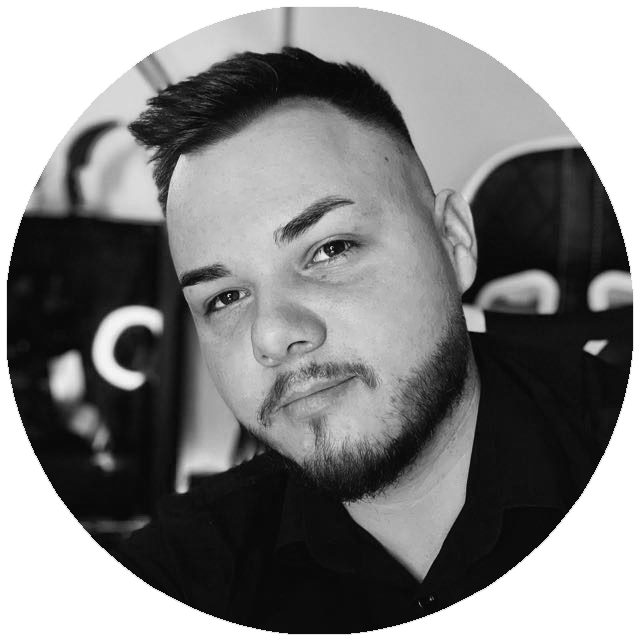
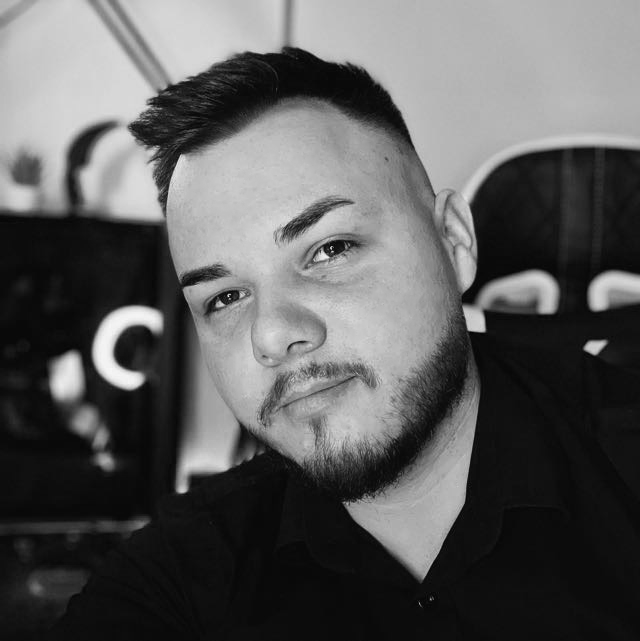
ripples fix

Changed region(s): [[0.0, 0.0, 1.0, 1.0]]

diff --git a/index.html b/index.html
@@ -44,7 +44,7 @@
                 <a href="#service" class="nav-item nav-link">Services</a>
                 <a href="#contact" class="nav-item nav-link">Contact</a>
             </div>
-            <a href="" class="btn btn-outline-primary d-none d-lg-block">Get CV</a>
+            <a href="assets/docs/cv.pdf" class="btn btn-outline-primary d-none d-lg-block" style="display: block; max-width: 200px;" download="Valentin - CV.pdf">Get CV</a>
         </div>
     </nav>
     <!-- Navbar End -->
@@ -55,7 +55,7 @@
         <div class="container">
             <div class="row align-items-center">
                 <div class="col-lg-5 px-5 pl-lg-0 pb-5 pb-lg-0">
-                    <img class="img-fluid w-100 rounded-circle shadow-sm" src="assets/img/profile.png" alt="">
+                    <img class="img-fluid w-100 rounded-circle shadow-sm" id="profile-photo" src="assets/img/profile.png" alt="">
                 </div>
                     <div class="col-lg-7 text-center text-lg-left">
                     <h3 class="text-white font-weight-normal mb-3">I'm</h3>
@@ -66,7 +66,6 @@
                     <h1 class="typed-text-output d-inline font-weight-lighter text-white"></h1>
                     <div class="typed-text d-none">Cybersecurity Specialist, Software Developer</div>
                     <div class="d-flex align-items-center justify-content-center justify-content-lg-start pt-5">
-                        <a href="assets/docs/cv.pdf" class="btn btn-outline-light mx-auto mx-lg-0" style="display: block; max-width: 200px;" download="Valentin - CV.pdf">Get CV</a>
                     </div>
                 </div>
             </div>

diff --git a/assets/css/style.css b/assets/css/style.css
@@ -10151,18 +10151,31 @@ h6,
 #home {
   position: relative;
   overflow: hidden;
-  background: url("assets/img/header-bg.jpg") center/cover no-repeat;
+  background: url("../img/background-image.jpg") center/cover no-repeat; /* adjust path relative to style.css */
+  min-height: 100vh; /* keep full viewport height */
 }
+
+/* Optional: overlay if you want darkened effect */
 #home::before {
   content: "";
   position: absolute;
   inset: 0;
-  background: rgba(0,0,0,0.4); /* dark transparent overlay */
+  background: rgba(0, 0, 0, 0.4); /* semi-transparent overlay */
   z-index: 1;
 }
+
 #home > .container {
   position: relative;
-  z-index: 2; /* keep content above ripples */
+  z-index: 2; /* ensures content stays above overlay */
 }
 
+#profile-photo {
+  width: 350px !important;
+  height: 350px !important;
+  aspect-ratio: 1 / 1;
+  border-radius: 50%;
+  border: 5px solid #fff;
+  box-shadow: 0 4px 15px rgba(0, 0, 0, 0.2);
+  object-fit: cover;
+}
 

diff --git a/assets/js/main.js b/assets/js/main.js
@@ -118,10 +118,11 @@
     $(function(){
     $('#home').ripples({
         resolution: 512,
-        dropRadius: 15,
+        dropRadius: 16,
         perturbance: 0.01
     });
     });
+
 
     
 })(jQuery);
